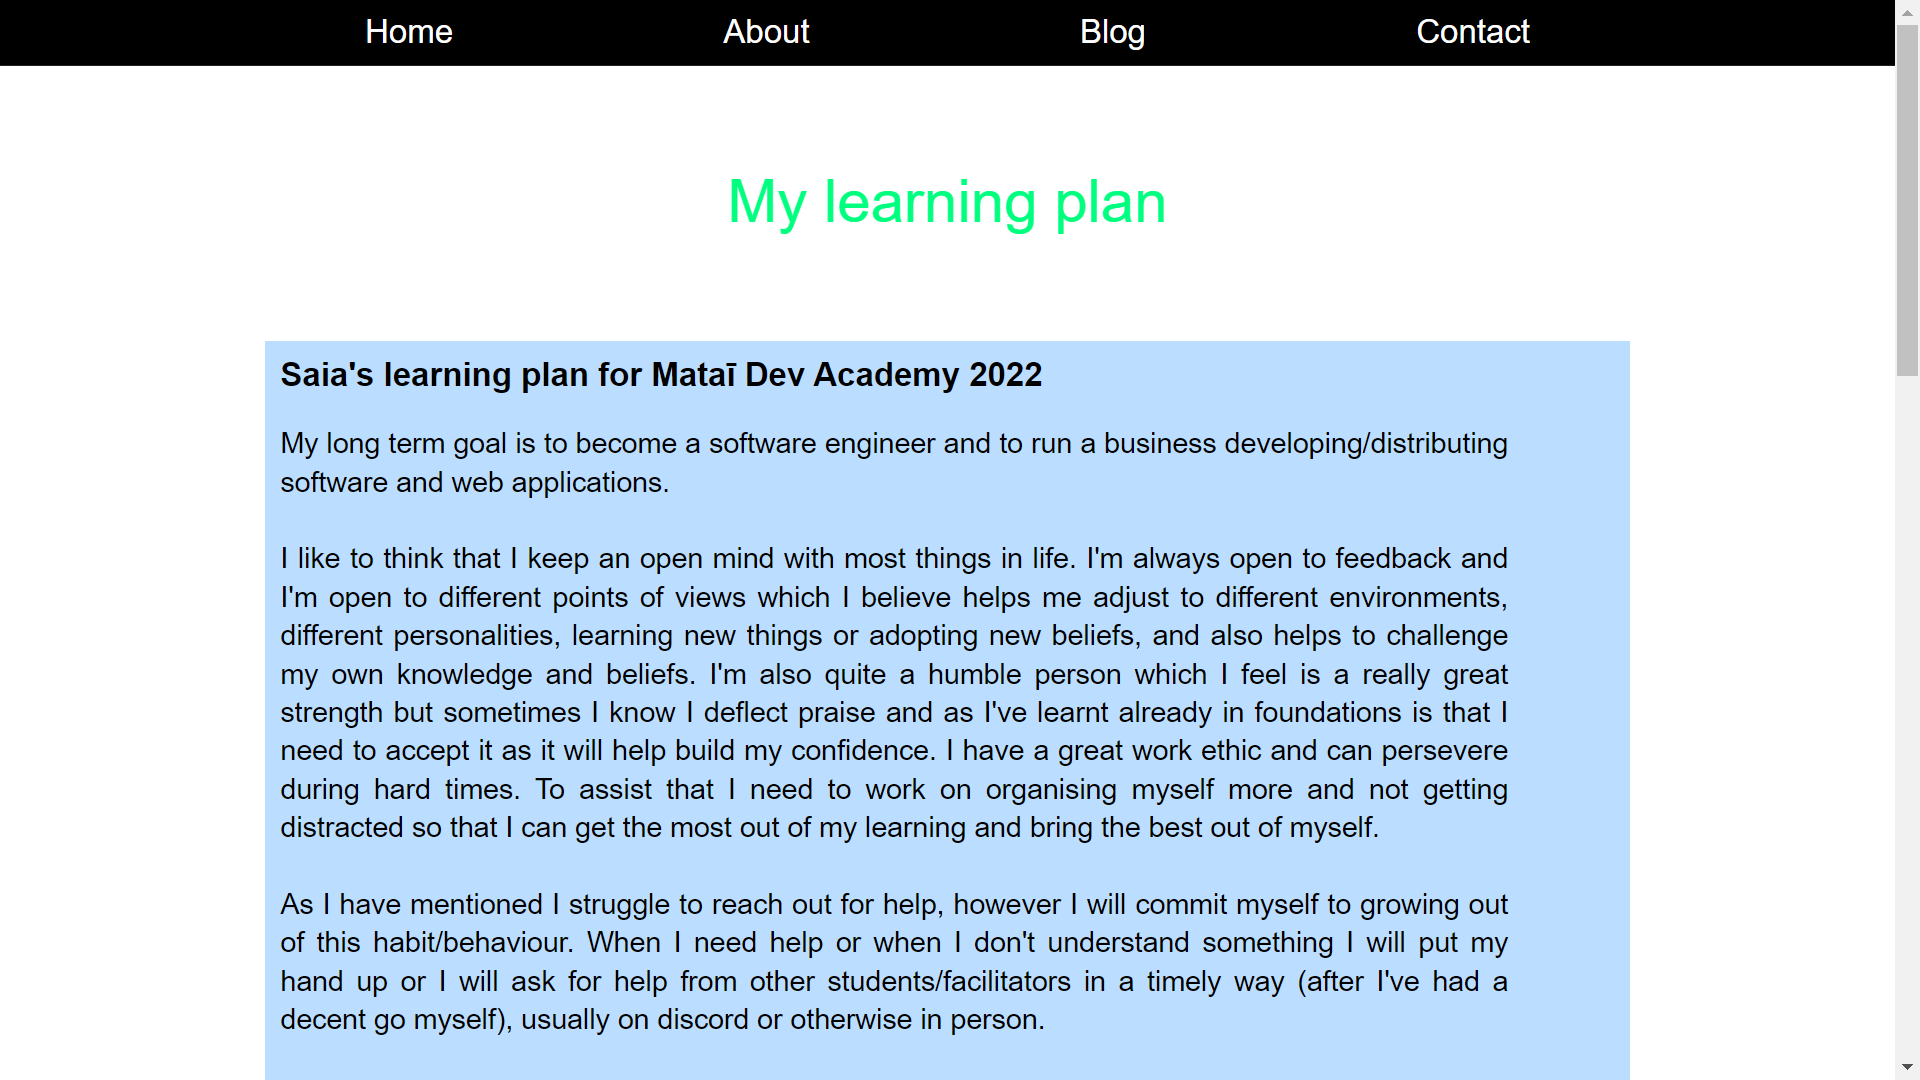
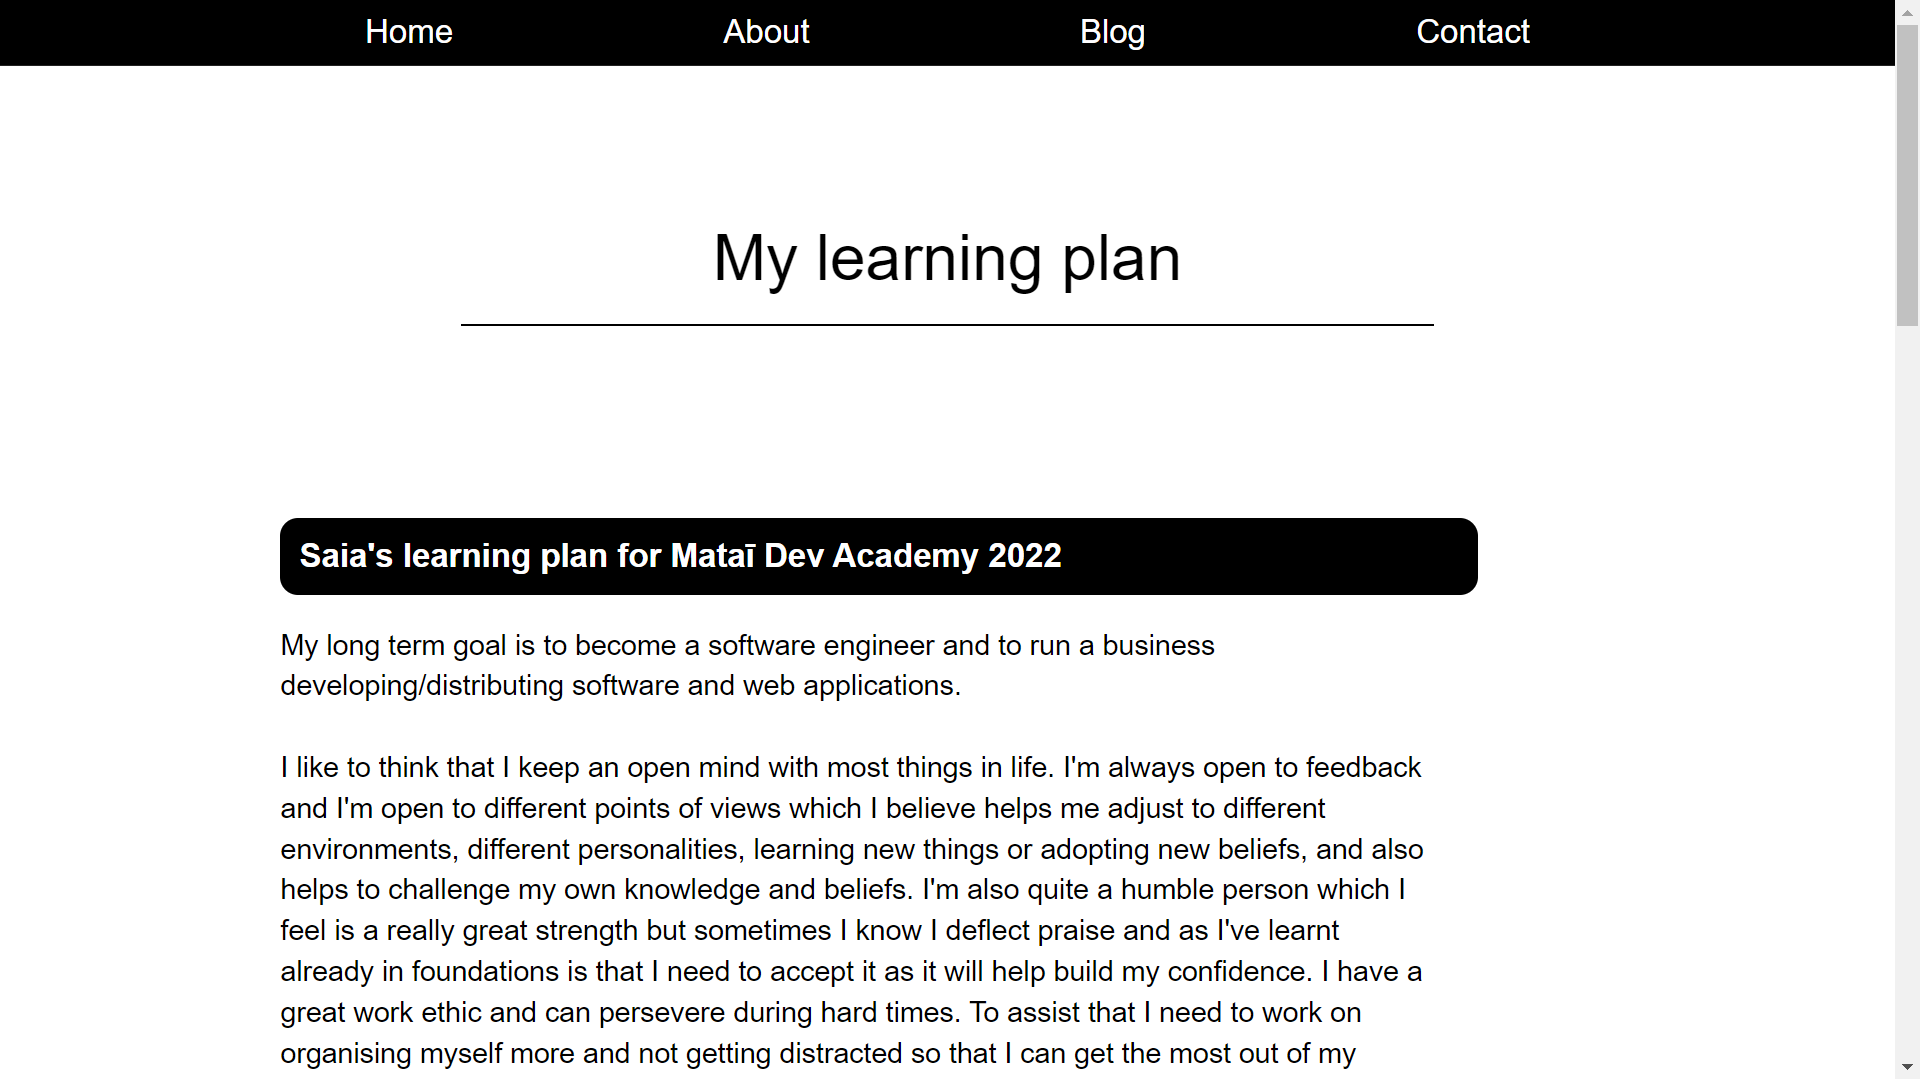
Change blog post link images

diff --git a/styles/subpage.css b/styles/subpage.css
@@ -110,7 +110,7 @@ body {
 
 .blog-post-title-wrapper {
   width: 80%;
-  height: 20vh;
+  height: 35vh;
   display: flex;
   flex-direction: column;
   align-items: center;
@@ -150,7 +150,7 @@ body {
 }
 
 .post-questions {
-width: 100%;
+width: 85%;
 font-size: 22px;
 font-family: sans-serif;
 font-weight: bold;
@@ -179,8 +179,8 @@ margin: 10px;
 }
 
 .post-answers-img-sml {
-  width: 250px;
-  height: 250px;
+  width: 260px;
+  height: 260px;
 }
 
 /* Blog post responsive styling */
